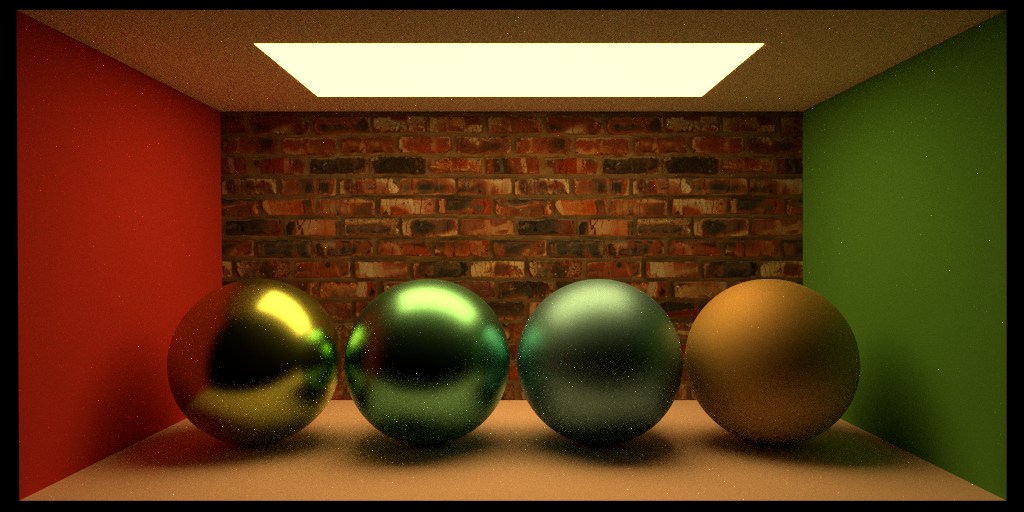
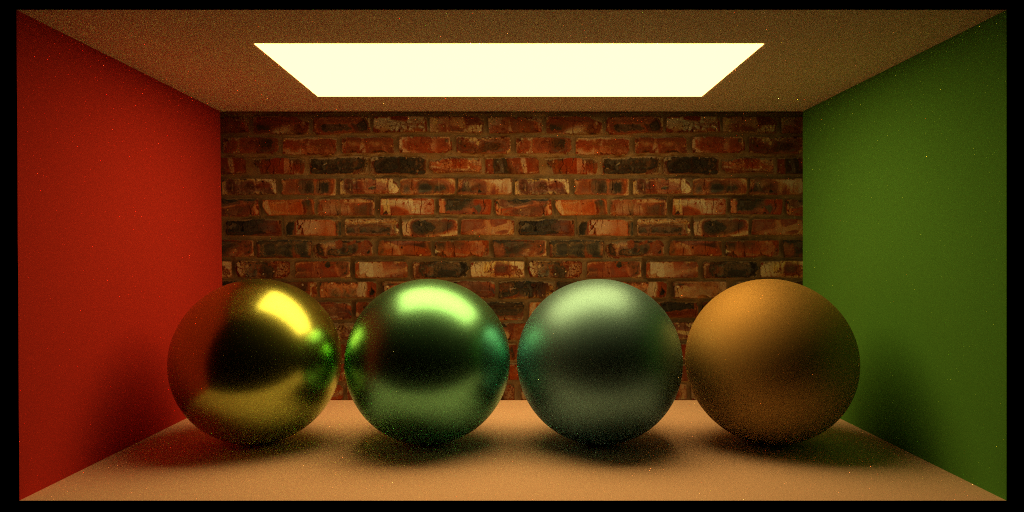
fix GGX issue

diff --git a/src/compute_radiance.cpp b/src/compute_radiance.cpp
@@ -535,6 +535,7 @@ Sample BRDF_sample(Material& currMaterial, Hit_Record& rec,
         // sample half vector h to get out_dir AND estimate D(h)
         Basis basis = Basis::orthonormal_basis(rec.normal);
         Vector3 sample_h = dir_Phong_sample(rng, basis, micro_blphMat->exponent);
+        // Vector3 sample_h = dir_GGX_sample(rng, basis, micro_blphMat->exponent);
 
         // reflect in_dir over h to get out_dir
         out_dir = mirror_dir(in_dir, sample_h);
@@ -545,11 +546,12 @@ Sample BRDF_sample(Material& currMaterial, Hit_Record& rec,
 
         // compute BlinnPhongMicrofacet BRDF;
         // note: in_dir w_i should align with shading normal
-        // brdfValue = micro_blphMat->compute_BRDF(sample_h, in_dir, out_dir, rec);
-        brdfValue = micro_blphMat->compute_BRDF_GGX(sample_h, in_dir, out_dir, rec);
+        brdfValue = micro_blphMat->compute_BRDF(sample_h, in_dir, out_dir, rec);
+        // brdfValue = micro_blphMat->compute_BRDF_GGX(sample_h, in_dir, out_dir, rec);
         
         // compute BlinnPhongMicrofacet PDF;
         pdf = micro_blphMat->compute_PDF(sample_h, out_dir, rec);
+        // pdf = micro_blphMat->compute_PDF_GGX(sample_h, out_dir, rec);
 
         return {out_dir, brdfValue, pdf, 0.0};
     }
@@ -696,9 +698,10 @@ Sample Light_sample(Scene& scene, Hit_Record& rec, BVH_node& root,
     }
     else if (BlinnPhongMicrofacet* micro_blphMat = get_if<BlinnPhongMicrofacet>(&currMaterial)) {
         Kd = eval_RGB(micro_blphMat->reflectance, rec.u, rec.v);
-        // brdfValue = micro_blphMat->compute_BRDF(h, in_dir, out_dir, rec);  // 2
-        brdfValue = micro_blphMat->compute_BRDF_GGX(h, in_dir, out_dir, rec);  // 2
-        pdf_BRDF = isPossible? micro_blphMat->compute_PDF(h, out_dir, rec) : 0.0;  // 3
+        brdfValue = micro_blphMat->compute_BRDF(h, in_dir, out_dir, rec);  // 2
+        pdf_BRDF = isPossible? micro_blphMat->compute_PDF(h, out_dir, rec) : 0.0;
+        // brdfValue = micro_blphMat->compute_BRDF_GGX(h, in_dir, out_dir, rec);  // 2
+        // pdf_BRDF = isPossible? micro_blphMat->compute_PDF_GGX(h, out_dir, rec) : 0.0;  // 3
     }
     else {
         Error("Shading point UNKNOWN material.");
@@ -834,9 +837,11 @@ Vector3 sample_oneLight_contribution(Scene& scene, Hit_Record& rec,
         Material& mat, const Vector3& in_dir)
 {
     // our return values: brdf * L(deterministic) / pdf_light
-    Vector3 brdfValue(0.0, 0.0, 0.0);  // safely return 0 when occuluded
-    Vector3 L(0.0, 0.0, 0.0);
-    Real pdf_Light = 1.0;
+    Vector3 Ld(0.0, 0.0, 0.0);
+    Vector3 brdfValue(0.0, 0.0, 0.0);  // safely return 0 when occ            out_dir = normalize(rec_light.pos - rec.pos);uluded
+    Vector3 Li(0.0, 0.0, 0.0);
+    Real pdf_Light = 1.0; Real pdf_BRDF = 1.0;
+    Real weight;  // balance heuristic
 
     // uniformly pick a light, which can be 
     // [point light, Sphere area light, TriangleMesh area light]
@@ -847,25 +852,26 @@ Vector3 sample_oneLight_contribution(Scene& scene, Hit_Record& rec,
 
     // compute accordingly
     Vector3 out_dir;
-    Vector3 l;  
     Real dsq;  // distance squared: shadingPt to light position
 
     // contribution is:
     //    BRDF * L when we are doing importance sampling and tracing ray
     //    BRDF * I * max(dot(-n_x, l), 0) / d^2 * visibility
     if (PointLight* ptLight = std::get_if<PointLight>(&light)) {
-        l = normalize(ptLight->position - rec.pos);
+        out_dir = normalize(ptLight->position - rec.pos);
         dsq = distance_squared(rec.pos, ptLight->position);
         if (isVisible(rec.pos, ptLight->position, scene, root)) { // 2
-            L =  ptLight->intensity * std::max( abs(dot(rec.normal, l)), 0.0 ) / dsq;
+            Li =  ptLight->intensity * std::max( abs(dot(rec.normal, out_dir)), 0.0 ) / dsq;
         }
         brdfValue = compute_BRDF(mat, in_dir, ptLight->position, rec);  // 1
         pdf_Light = 1.0 / nLights;  // 3
+        Ld += brdfValue * Li / pdf_Light;
     }
     else if (DiffuseAreaLight* areaLight = get_if<DiffuseAreaLight>(&light)) {
         if (scene.lights.size() == 0) {
             return Vector3(0.0, 0.0, 0.0);
         }
+        // TODO: include dx version pdf_BRDF
         // get the brdf and pdf of the sampled light
         tie(out_dir, brdfValue, pdf_Light) = 
             arealight_sample(scene, rec, root, areaLight, mat, rng, in_dir);  // 1 & 3
@@ -881,13 +887,35 @@ Vector3 sample_oneLight_contribution(Scene& scene, Hit_Record& rec,
         bool foundHit = root.hit(lightRay, EPSILON, infinity<Real>(), scene, rec_light, lightObj);
         if (foundHit) {
             dsq = distance_squared(rec.pos, rec_light.pos);
-            l = normalize(rec_light.pos - rec.pos);
-            L =  areaLight->radiance * std::max( abs(dot(rec.normal, l)), 0.0 ) / dsq;  // 2
+            Li =  areaLight->radiance * std::max( abs(dot(rec.normal, out_dir)), 0.0 ) / dsq;  // 2
+
+            // actually it's f * Li / (pdf_L + pdf_BRDF), but it's good to keep a clear formula structure.
+            weight = pdf_Light / (pdf_Light + pdf_BRDF);
+            Ld += brdfValue * Li * weight / pdf_Light;
         }
+
+
+        // Do BRDF sampling only for area light; now we have a new out_dir
+        tie(out_dir, brdfValue, pdf_BRDF, pdf_Light) = BRDF_sample(mat, rec, rng, in_dir);
+            ray outRay(rec.pos, out_dir);
+        // "fake" choose a light: if no light, this is 0
+        pdf_Light = alternative_light_pdf(outRay, scene, root, rec.pos);
+
+        Hit_Record rec_brdf;
+        Shape* brdfObj = nullptr;
+        ray brdfRay(rec.pos, out_dir);
+        foundHit = root.hit(brdfRay, EPSILON, infinity<Real>(), scene, rec_brdf, brdfObj);
+        if (foundHit) {
+            dsq = distance_squared(rec.pos, rec_brdf.pos);
+            
+        }
+
+        weight = pdf_BRDF / (pdf_Light + pdf_BRDF);
+        Ld += brdfValue * Li * weight / pdf_BRDF;
     }
 
     // cout << "contrib from one light: " << brdfValue * L / pdf_Light << endl;
-    return brdfValue * L / pdf_Light;
+    return Ld;
 }
 
 

diff --git a/src/helper.cpp b/src/helper.cpp
@@ -314,3 +314,23 @@ Vector3 dir_Phong_sample(pcg32_state& rng, Basis& basis, Real alpha) {
     Vector3 local_pos(x,y,z);
     return basis.local2world(local_pos);
 }
+
+
+Vector3 dir_GGX_sample(pcg32_state& rng, Basis& basis, Real exponent) {
+    double u1 = next_pcg32_real<double>(rng);
+    double u2 = next_pcg32_real<double>(rng);
+
+    Real phi = c_TWOPI * u2;
+
+    Real alpha_sq = 2.0 / (exponent + 2.0);
+    Real theta = tan(sqrt( alpha_sq * u1 / (1.0 - u1) ));
+    Real sin_theta = sin(theta); Real cos_theta = cos(theta);
+
+    Real x = sin_theta * cos(phi);
+    Real y = sin_theta * sin(phi);
+    Real z = cos_theta;
+
+    // turn to world space
+    Vector3 local_pos(x,y,z);
+    return basis.local2world(local_pos);
+}

diff --git a/src/material.h b/src/material.h
@@ -264,6 +264,12 @@ struct BlinnPhongMicrofacet {
         return alpha_sq / (c_PI * cos_theta_sq*cos_theta_sq * pow((alpha_sq + tan_sq), 2));
     }
 
+    Real compute_PDF_GGX(const Vector3& h, const Vector3& out_dir, Hit_Record& rec) {
+        // just D(m) * <m, n>
+        Real alpha_sq = 2.0 / (exponent + 2.0);
+        return compute_D_GGX(h, rec, alpha_sq) * dot(h, rec.normal) / (4.0 * dot(out_dir, h));
+    }
+
     #pragma endregion GGX
 };
 

diff --git a/src/helper.h b/src/helper.h
@@ -242,3 +242,6 @@ Vector3 dir_cos_sample(pcg32_state& rng, Basis& basis);
  * @return Vector3 
  */
 Vector3 dir_Phong_sample(pcg32_state& rng, Basis& basis, Real alpha);
+
+
+Vector3 dir_GGX_sample(pcg32_state& rng, Basis& basis, Real exponent);
